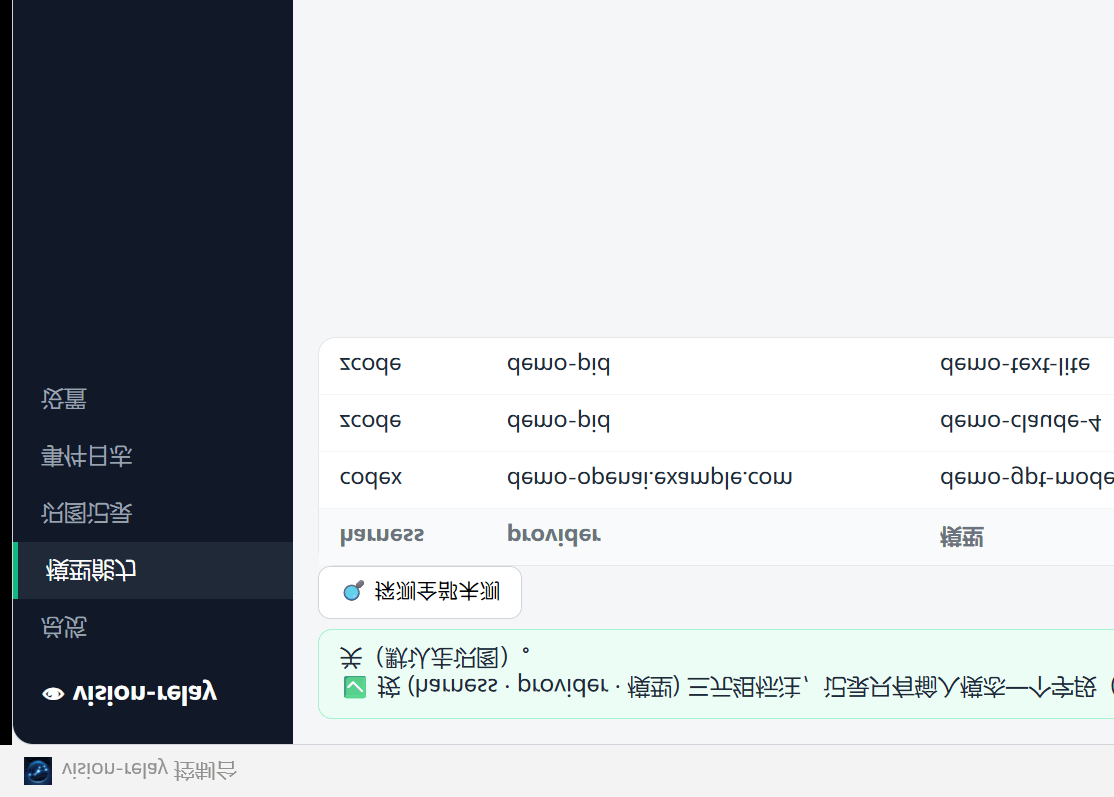
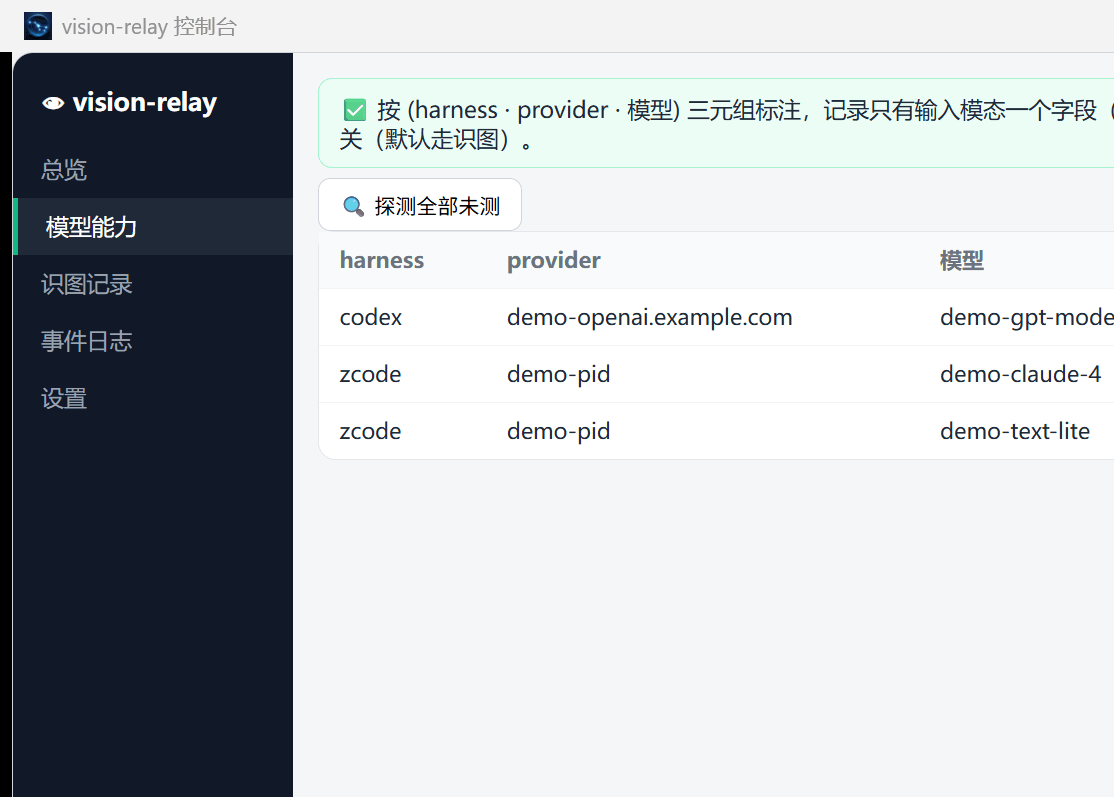
docs(readme): GUI 逐页使用手册（五页签交互+展示、第六节进阶、安装版启动方式）；截图垂直镜像修复+2×2 排列；移除 qwen-mm 出身/升级表述

diff --git a/README.md b/README.md
@@ -5,10 +5,8 @@
 A **transparent HTTP proxy at the agent-harness boundary** that gives **text-only models vision**.
 It sits in front of your harness base_url, intercepts images in Anthropic / Responses / Chat requests,
 transcribes them via a vision-language model (VLM), and **relays the text** to the real upstream text model.
-The upstream only ever sees text — so a text-only model can "read" images, without any skill, plugin, or tool. 
-
-This is the standalone project extracted from [Qwen-MM-Plugins](https://github.com/QwenLM/Qwen-MM-Plugins)
-(its `proxy` capability), running as a **resident HTTP service**, not a Skill + MCP server.
+The upstream only ever sees text — so a text-only model can "read" images, without any skill, plugin, or tool.
+It runs as a **resident HTTP service**, not a Skill + MCP server.
 
 ## Why a proxy, not a Skill?
 
@@ -176,29 +174,74 @@ vision-relay status --json
 
 A Tauri 2 desktop console manages everything visually, for Claude Code, Codex, Qwen Code and zcode alike: routing toggle with live per-harness topology, model modality matrix backed by real probes, vision call records (prompt / raw VLM reply / injected text), read-only diagnostics with auto-repair, per-harness VLM settings, and local-only vision logs with retention. It ships inside the desktop installer above — zero Python needed.
 
-| Overview | Model capabilities | Vision records | Settings |
-|---|---|---|---|
-| ![Overview](docs/screenshots/overview.png) | ![Models](docs/screenshots/models.png) | ![Records](docs/screenshots/records.png) | ![Settings](docs/screenshots/settings.png) |
+### Launching
 
-Development mode (from a checkout; needs the core on `PATH`, e.g. `pip install -e .`):
+- **Installed app (recommended)**: launch it like any regular app — **Launchpad / Applications** on macOS, the **Start menu** on Windows, the app list on Linux. First launch walks you through a two-step wizard: ① fill in the VLM (the only required setting), ② review model capabilities — then routing is on.
+- **Development mode (from a checkout)**: needs the core on `PATH` (e.g. `pip install -e .` first), then:
 
 ```bash
 pnpm -C gui install
-```
-
-Run the GUI in development mode:
-
-```bash
 pnpm -C gui tauri dev
 ```
+
+> Closing the window ≠ stopping the service: on close it asks whether to "close the UI only (service keeps running in the tray)" or "stop the service too"; your choice can be remembered. While resident, the tray icon reopens the window or runs diagnostics.
+
+### A quick look
+
+| ![Overview](docs/screenshots/overview.png) | ![Models](docs/screenshots/models.png) |
+|:---:|:---:|
+| **Overview** | **Model capabilities** |
+| ![Records](docs/screenshots/records.png) | ![Settings](docs/screenshots/settings.png) |
+| **Vision records** | **Settings** |
+
+### Sheet-by-sheet guide
+
+**1) Overview — see at a glance whether the service is alive and who is wired through**
+
+- Shows: service status banner (running / stopped · `127.0.0.1:<port>` · auto-reconciling); one card per harness with takeover status (✓ taken over) and the live wiring chain (base_url → vision-relay → relay → real upstream, bypassed hops clearly marked); below, two lists — "handled automatically" (reclaimed drift, absorbed upstream changes, auto-fixes, auto-annotations) and "⚠ needs you" (e.g. a direct upstream missing an API key).
+- Interact: the **routing toggle**; 🔄 **refresh** (manual reconcile: reclaim hijacked wiring, absorb vendor changes); 📋 **diagnostics** (read-only report: service / port / routing-tool status + what was auto-fixed + what still needs you); expand a card's **details** to open the harness config file, **disable / re-enable a relay**, or **fill in a missing API key**; when a zcode rewrite is pending a restart banner appears with a one-click restart.
+
+**2) Model capabilities — "reads images" only counts once probed**
+
+- Shows: the capability matrix keyed by (harness · provider · model): current annotation (image / text-only / unannotated), source (default / manual / cached probe), and the measured column (✓ accepts images / ✗ rejects / untested); inactive providers are folded at the bottom (excluded from probing); a status line shows progress and conclusions.
+- Interact: 🔍 **probe all untested** — sends a real request per row for models of the currently active provider without a cached verdict, with in-row spinner and live N/M progress, then a summary popup (image / text-only / inconclusive / unreachable counts plus the first unreachable reason); per-row **retest** (active provider only); click "toggle" to cycle an annotation (unannotated → text-only → image); edited rows highlight until "save changes" applies them together; "fetch model list from upstream" optionally assists annotation (for two-hop routing the list lives in the routing tool's own UI).
+
+**3) Vision records — what exactly got written on every "look"**
+
+- Shows: a harness → session tree on the left; a table on the right (time, tier Tier1/Tier2, cache hit, duration, VLM used). Clicking any row expands the "three-part detail": ① the prompt sent to the VLM, ② the VLM's raw reply, ③ the text actually injected into the conversation — the whole transcription is auditable.
+- Interact: click a session or row to inspect. Records stay on this machine only; retention is configurable in Settings.
+
+**4) Event log — every automatic action, on the record**
+
+- Shows: a rolling ledger of automatic actions (time / harness / type / details): auto-reclaim, auto-absorb, auto-fix, auto-annotate, relay added; refreshes every 8 seconds.
+- Interact: filter by type; "⬇ export" downloads the full event stream as JSONL.
+
+**5) Settings — the only required setting plus every switch**
+
+- **VLM (the only required setting)**: model name, base URL, API key (masked input; 👁 reveals the saved key temporarily; leave blank to keep the current key).
+- **Routing scope**: pick which harnesses get routed; unchecking one immediately restores its original wiring (unchecking a running zcode pops three choices: restart now / keep it checked / restart later yourself).
+- **Per-harness groups**: everything follows the global VLM by default; "configure separately" gives one tool its own endpoint / model / key.
+- **Appearance**: UI language (system / 中文 / English); core path (auto-detected from `PATH`, settable by hand).
+- **Service & advanced**: default handling for unannotated models (treat as text-only and transcribe = safe default / pass through = saves tokens); vision-record logging on/off and retention days (default 7, local only).
+- 🧪 **VLM test**: four modes (Tier1 / Tier2 × default / custom prompt), optional custom test image (PNG / JPEG / WebP / GIF, ≤10 MiB), one click sends a real request and shows duration and transcription.
+- All input edits take effect via the sticky "💾 save" bar; "discard" reverts.
+
+**6) Advanced features**
+
+The advanced capabilities scattered across the five sheets, collected:
+
+- **Custom vision prompts** (Settings → vision prompts): both the Tier1 "describe fully" and Tier2 "answer the question" prompts are replaceable, with one-click restore to defaults.
+- **Default for unannotated models** (Settings → service & advanced): safe side by default (transcribe as text-only); switch to pass-through to save tokens once you know every upstream model is vision-capable.
+- **Per-harness VLM** (Settings): give each tool its own transcription endpoint — e.g. a cheap model just for codex.
+- **Relay disable / re-enable / fill key** (Overview → details): temporarily disable a misbehaving forwarding leg, re-enable with one click; fill a direct upstream's missing key right in the UI.
+- **Fetch model list from upstream** (Model capabilities): ask the upstream for its model IDs to assist annotation; under two-hop routing (CC Switch / Codex++) you're pointed to the tool's own UI.
+- **Event stream export** (Event log): full JSONL for archiving and review.
+- **Tray residency & remembered close behavior**: close the window while the service stays resident; the tray menu reopens Overview or pops the diagnostics report.
+- **CLI parity**: every GUI action is backed by a `vision-relay` management verb (`status` / `diagnose` / `refresh` / `probe` / …, all with `--json`), so scripted use never needs the GUI.
 
 ## Configuration
 
 Shared config lives in `~/.vision-relay/config` (fallback for env vars); proxy settings in `~/.vision-relay/proxy.json`. Env overrides: `VISION_RELAY_BIND_PORT`, `VISION_RELAY_VLM_MODEL`, `VISION_RELAY_VLM_BASE_URL`, `VISION_RELAY_VLM_API_KEY`, `VISION_RELAY_VLM_FORMAT` (config dir: `VISION_RELAY_CONFIG_DIR`).
-
-### Upgrading from qwen-mm-plugins-proxy
-
-vision-relay is the standalone successor of the `qwen-mm-plugins-proxy` capability. On first start it reads an existing `~/.qwen-mm-plugins/proxy.json` automatically and migrates it to `~/.vision-relay/` on next save; legacy `QWEN_MM_PROXY_*` env vars and `.qwen-mm-proxy.bak` wiring backups are still recognized (with a deprecation warning). If you still export the legacy `QWEN_MM_CONFIG_DIR`, it is honored as the active state directory for both reads and writes (no split-brain); the automatic migration applies to the default paths.
 
 ## Development
 

diff --git a/README.zh.md b/README.zh.md
@@ -4,7 +4,7 @@
 
 一个架设在 **agent harness 边界的透明 HTTP 代理**,让**纯文本模型**拥有视觉能力。它在你的 harness base_url 前面,拦截 Anthropic / Responses / Chat 三类请求里的图片,交给视觉语言模型(VLM)转述为文字,再**把文本转发(relay)给真正的上游文本模型**。
 
-上游永远只看到文本——所以无需任何 skill / 插件 / 工具,纯文本模型就能"看图"。它是从 [Qwen-MM-Plugins](https://github.com/QwenLM/Qwen-MM-Plugins) 的 `proxy` 能力抽取出来的独立项目,以**驻留式 HTTP 服务**形式运行(不是 Skill + MCP server)。
+上游永远只看到文本——所以无需任何 skill / 插件 / 工具,纯文本模型就能"看图"。它以**驻留式 HTTP 服务**形式运行(不是 Skill + MCP server)。
 
 ## 为什么用"代理",而不是 "Skill"?
 
@@ -172,29 +172,74 @@ vision-relay status --json
 
 Tauri 2 桌面控制台把一切可视化，统一管理 Claude Code / Codex / Qwen Code / zcode 四家 harness：路由开关与逐 harness 实时拓扑、实测背书的模型能力矩阵、识图记录（提示词 / VLM 原始返回 / 实际注入文本）、只读诊断报告 + 自动修复、按 harness 的 VLM 配置、仅本机留痕与留存策略。随上方桌面安装包一起分发——零 Python 依赖。
 
-| 总览 | 模型能力 | 识图记录 | 设置 |
-|---|---|---|---|
-| ![总览](docs/screenshots/overview.png) | ![模型能力](docs/screenshots/models.png) | ![识图记录](docs/screenshots/records.png) | ![设置](docs/screenshots/settings.png) |
+### 启动
 
-开发模式（源码 checkout；需要 PATH 上有核心，如 `pip install -e .`）：
+- **安装版（推荐）**：安装桌面应用后，像打开普通应用一样启动——macOS 在「启动台 / 应用程序」、Windows 在「开始菜单」、Linux 在应用列表里找 **vision-relay**。首次打开会弹两步向导：① 填 VLM（唯一必配项）② 过目模型能力，完成即开启路由。
+- **开发模式（源码 checkout）**：需要核心在 `PATH` 上（如先 `pip install -e .`），然后：
 
 ```bash
 pnpm -C gui install
-```
-
-以开发模式启动 GUI：
-
-```bash
 pnpm -C gui tauri dev
 ```
+
+> 关窗口 ≠ 停服务：关闭时会问「仅关闭界面（服务后台继续）」还是「连服务一起停」，选择可记住；服务驻留时托盘图标可重新打开界面或触发诊断。
+
+### 界面速览
+
+| ![总览](docs/screenshots/overview.png) | ![模型能力](docs/screenshots/models.png) |
+|:---:|:---:|
+| **总览** | **模型能力** |
+| ![识图记录](docs/screenshots/records.png) | ![设置](docs/screenshots/settings.png) |
+| **识图记录** | **设置** |
+
+### 各页签详解
+
+**1）总览 —— 一眼看清"服务活没活、谁接了线"**
+
+- 展示：顶部服务状态（运行中 / 已停止 · `127.0.0.1:<端口>` · 自动对账中）；每个 harness 一张卡片，含接管状态（✓ 已接管）与实时接线链路（base_url → vision-relay → relay → 真实上游，被旁路的一目了然）；下方两块清单：「自动处理」= 系统已自动搞定的事（抢回漂移接线、吸收新上游、自动修复、自动标注），「⚠ 需要你」= 等你动手的事（如直连上游缺 API key）。
+- 可交互：**路由总开关**；🔄 **刷新**（手动对账：抢回被劫持的接线、吸收供应商变更）；📋 **诊断**（只读体检报告：服务 / 端口 / 路由工具在线状态 + 本次已自动修复项 + 仍需你处理项）；卡片「详情」展开后可**打开 harness 配置文件**、**停用 / 恢复某条 relay 转发**、为直连上游**补填 API key**；zcode 配置改写未生效时出现「待重启」提示条，可一键重启 zcode。
+
+**2）模型能力 —— 哪个模型会看图，实测过才算数**
+
+- 展示：按 (harness · provider · 模型) 三元组的能力矩阵：当前标注（支持图片 / 纯文本 / 未标注）、依据（默认 / 人工 / 实测缓存）、实测列（✓ 接受 / ✗ 拒图 / 未测）；未激活供应商折叠在底部（不参与探测）；顶部状态行显示探测进度与结论。
+- 可交互：🔍 **探测全部未测**——对当前激活供应商中无实测结论的模型逐行发真请求，行内 spinner + 实时进度 N/M，结束弹汇总（支持图片 / 纯文本 / 无结论 / 不可达 计数与首个不可达原因）；单行**重测**（仅当前激活供应商可测）；点「切换」循环调整标注（未标注 → 纯文本 → 支持图片）；改动行高亮，底部「**保存修改**」统一生效；「从上游拉取模型清单」可选辅助标注（两层路由时清单在路由工具自己的界面）。
+
+**3）识图记录 —— 每次"看图"都留了什么底稿**
+
+- 展示：左侧按 harness → 会话分组的记录树；右侧表格（时间、层级 Tier1/Tier2、缓存命中、耗时、所用 VLM）。点任意一行展开「三段明细」：① 发给 VLM 的提示词 ② VLM 原始返回 ③ 实际注入对话的文本——转述链路完全可审计。
+- 可交互：点会话或记录行查看明细。记录仅存本机，留存天数在「设置」调整。
+
+**4）事件日志 —— 自动动作全程留痕**
+
+- 展示：自动动作流水（时间 / harness / 类型 / 内容），类型含自动抢回、自动吸收、自动修复、自动标注、生成转发；每 8 秒自动刷新。
+- 可交互：按类型下拉筛选；「⬇ 导出」下载完整事件流水（JSONL）。
+
+**5）设置 —— 唯一必配项和所有开关都在这**
+
+- **VLM（唯一必配）**：模型名称、base URL、API key（密文输入，👁 可临时揭示已保存的 key；留空 = 不修改）。
+- **路由范围**：勾选对哪些 harness 生效；取消勾选立即还原该工具的接线（zcode 运行中取消勾选会弹三选：立即重启 / 保留勾选 / 稍后自行重启）。
+- **按 harness 分组**：默认全部跟随全局 VLM；某家想用不同端点 / 模型 / key 时点「单独配置」。
+- **外观**：界面语言（跟随系统 / 中文 / English）；核心路径（自动探测 `PATH`，失败可手动指定）。
+- **服务与高级**：未标注模型的默认处理（按纯文本走转述 = 安全默认 / 直通 = 省 token）；识图留痕开关与留存天数（默认 7 天，仅存本机）。
+- 🧪 **VLM 测试**：四种模式（Tier1 / Tier2 × 默认 / 自选提示词），可选自定义测试图（PNG / JPEG / WebP / GIF，≤10 MiB），一键发真请求验证链路并显示耗时与转述结果。
+- 所有输入类修改由底部「💾 **保存设置**」统一生效；反悔点「放弃修改」。
+
+**6）进阶功能**
+
+散在五个页签里的进阶能力，集中说明：
+
+- **自定义识图提示词**（设置 → 识图提示词）：Tier1「全面描述」/ Tier2「聚焦回答」两档提示词均可替换，↩ 一键恢复默认。
+- **未标注模型默认行为**（设置 → 服务与高级）：默认走安全侧（当纯文本转述）；确认上游全是视觉模型时可切「直通」省 token。
+- **按 harness 独立 VLM**（设置）：给不同工具配不同 VLM 端点，比如给 codex 单独配个便宜的转述模型。
+- **relay 停用 / 恢复 / 补 key**（总览 → 详情）：某条转发链路异常时可临时停用，一键恢复；直连上游缺 key 直接在界面补填。
+- **从上游拉取模型清单**（模型能力）：向上游要模型 ID 列表辅助标注；两层路由（CC Switch / Codex++）时提示清单在工具界面查看。
+- **事件流水导出**（事件日志）：全量 JSONL，便于归档与复查。
+- **托盘常驻与关闭行为记忆**：关窗可只关界面不停服务；托盘菜单可回到总览或直接弹诊断报告。
+- **命令行对等**：GUI 每个动作背后都是 `vision-relay` 管理动词（`status` / `diagnose` / `refresh` / `probe` / …，支持 `--json`），脚本化场景可完全脱离 GUI 使用。
 
 ## 配置
 
 共享配置在 `~/.vision-relay/config`(作为环境变量的回退);代理设置在 `~/.vision-relay/proxy.json`。环境变量覆盖:`VISION_RELAY_BIND_PORT`、`VISION_RELAY_VLM_MODEL`、`VISION_RELAY_VLM_BASE_URL`、`VISION_RELAY_VLM_API_KEY`、`VISION_RELAY_VLM_FORMAT`(配置目录:`VISION_RELAY_CONFIG_DIR`)。
-
-### 从 qwen-mm-plugins-proxy 升级
-
-vision-relay 是 `qwen-mm-plugins-proxy` 能力的独立继任者。首次启动会自动读取已有的 `~/.qwen-mm-plugins/proxy.json`,并在下次保存时迁移到 `~/.vision-relay/`;旧 `QWEN_MM_PROXY_*` 环境变量与 `.qwen-mm-proxy.bak` 接线备份仍被识别(带 deprecation 提示)。若你仍导出旧 `QWEN_MM_CONFIG_DIR`,它会被当作当前状态目录(读写一致,避免双脑);自动迁移只针对默认路径。
 
 ## 开发
 
